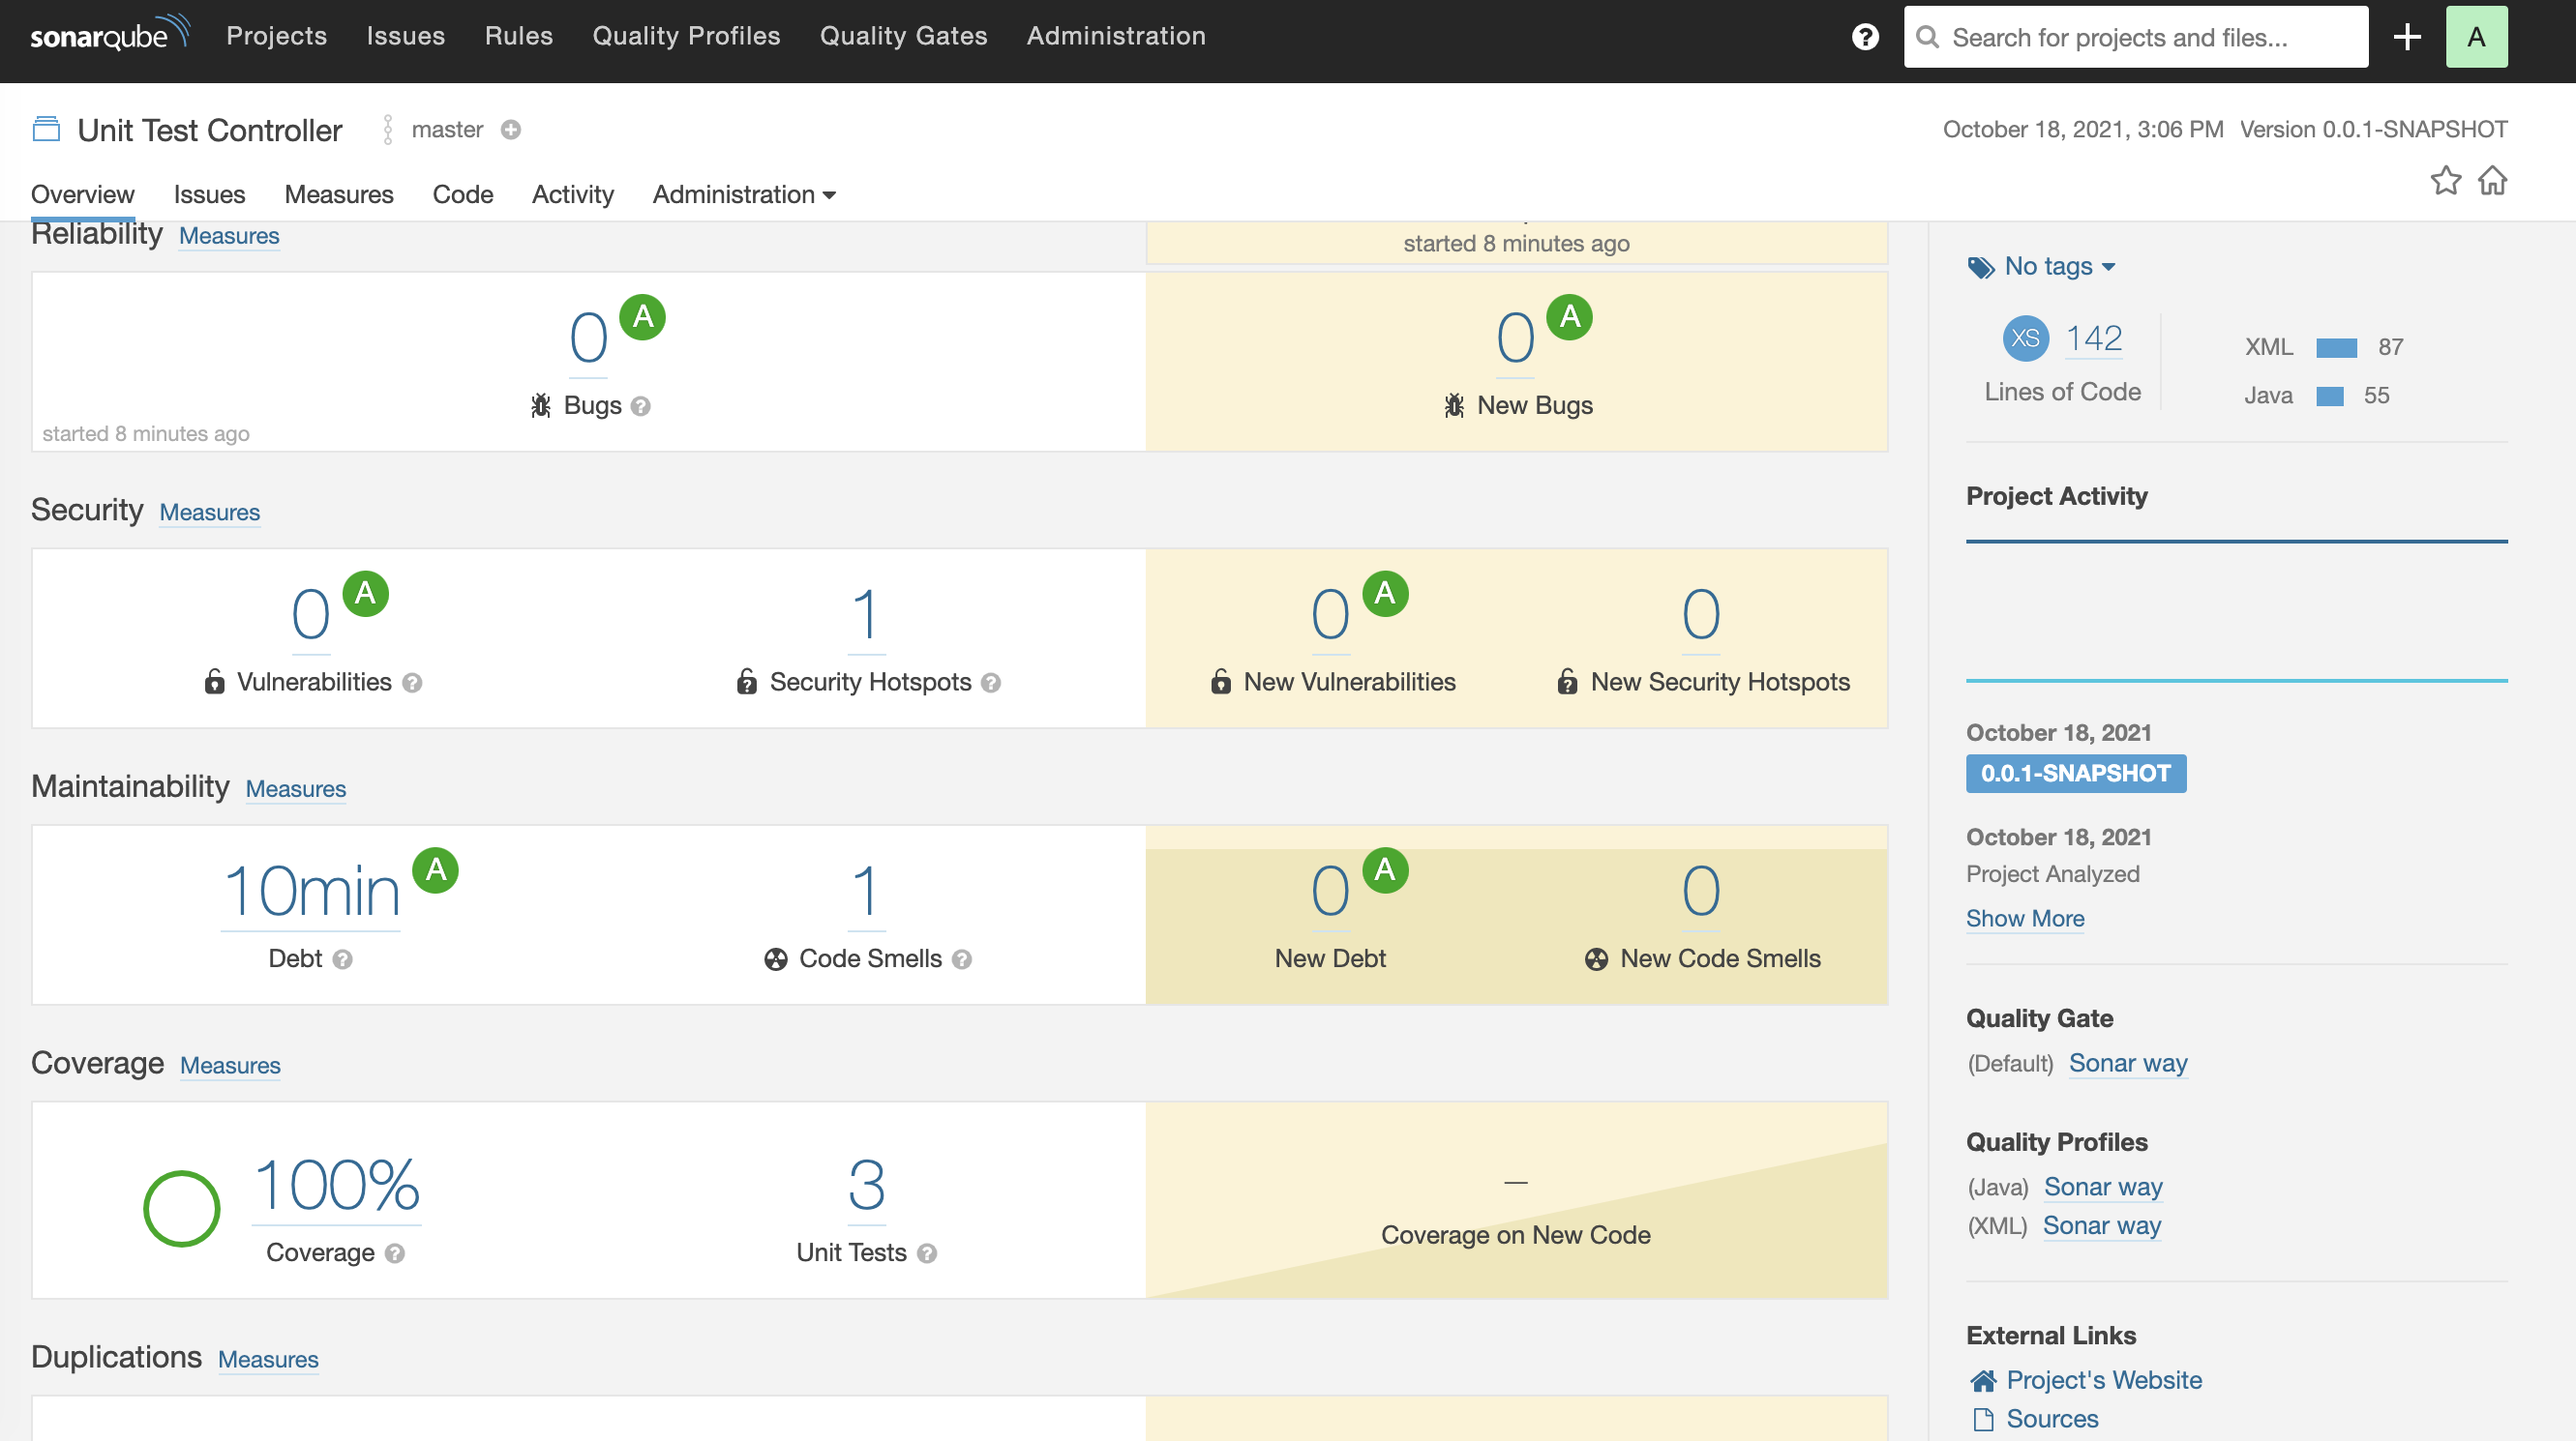
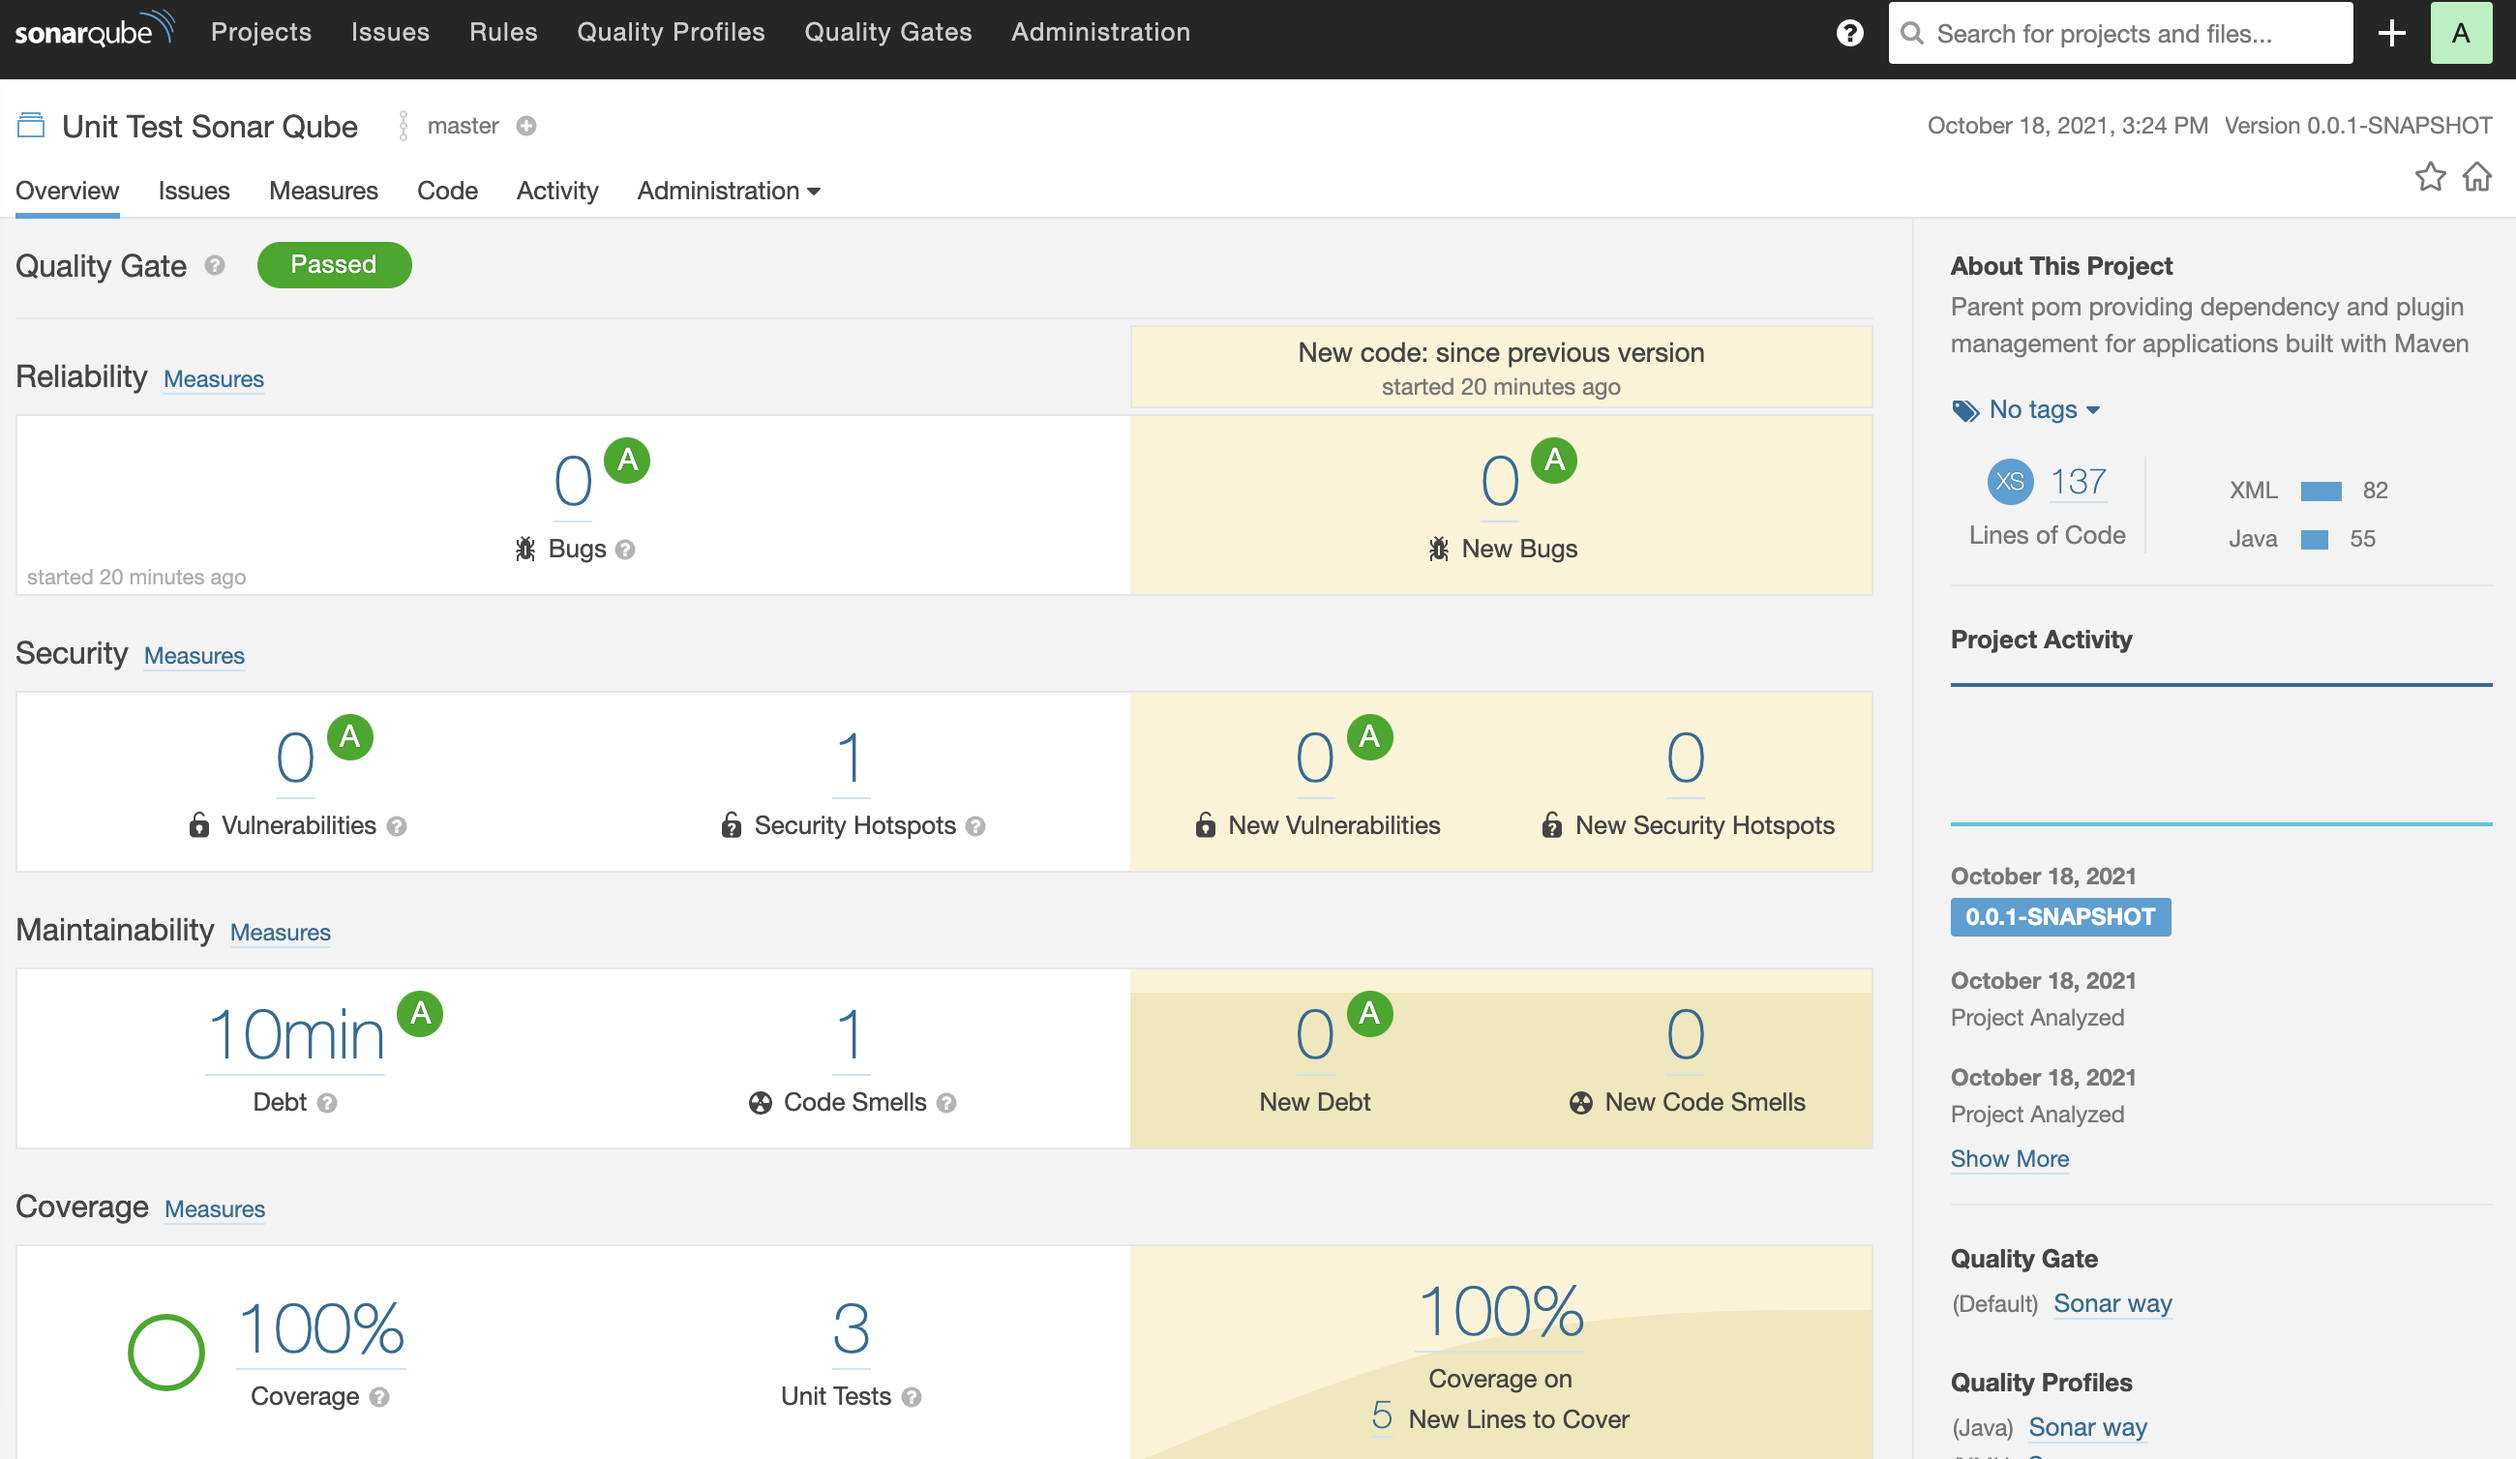
Rename project

diff --git a/unit-test-sonar-qube/src/test/java/io/codebyexample/unittestsonarqube/entrypoint/ControllerTest.java b/unit-test-sonar-qube/src/test/java/io/codebyexample/unittestsonarqube/entrypoint/ControllerTest.java
@@ -1,4 +1,4 @@
-package io.codebyexample.unittestcontroller.entrypoint;
+package io.codebyexample.unittestsonarqube.entrypoint;
 
 import static org.hamcrest.Matchers.is;
 import static org.springframework.test.web.servlet.request.MockMvcRequestBuilders.get;
@@ -6,10 +6,9 @@ import static org.springframework.test.web.servlet.result.MockMvcResultHandlers.
 import static org.springframework.test.web.servlet.result.MockMvcResultMatchers.jsonPath;
 import static org.springframework.test.web.servlet.result.MockMvcResultMatchers.status;
 
-import io.codebyexample.unittestcontroller.core.entity.Greeting;
-import io.codebyexample.unittestcontroller.core.usecase.GreetUseCase;
+import io.codebyexample.unittestsonarqube.core.entity.Greeting;
+import io.codebyexample.unittestsonarqube.core.usecase.GreetUseCase;
 import org.junit.jupiter.api.Test;
-import org.mockito.BDDMockito;
 import org.mockito.Mockito;
 import org.springframework.beans.factory.annotation.Autowired;
 import org.springframework.boot.test.autoconfigure.web.servlet.WebMvcTest;

diff --git a/unit-test-sonar-qube/src/main/java/io/codebyexample/unittestsonarqube/entrypoint/Controller.java b/unit-test-sonar-qube/src/main/java/io/codebyexample/unittestsonarqube/entrypoint/Controller.java
@@ -1,7 +1,7 @@
-package io.codebyexample.unittestcontroller.entrypoint;
+package io.codebyexample.unittestsonarqube.entrypoint;
 
-import io.codebyexample.unittestcontroller.core.entity.Greeting;
-import io.codebyexample.unittestcontroller.core.usecase.GreetUseCase;
+import io.codebyexample.unittestsonarqube.core.entity.Greeting;
+import io.codebyexample.unittestsonarqube.core.usecase.GreetUseCase;
 import org.springframework.beans.factory.annotation.Autowired;
 import org.springframework.web.bind.annotation.GetMapping;
 import org.springframework.web.bind.annotation.RequestParam;

diff --git a/unit-test-sonar-qube/src/test/java/io/codebyexample/unittestsonarqube/core/usecase/GreetUseCaseImplTest.java b/unit-test-sonar-qube/src/test/java/io/codebyexample/unittestsonarqube/core/usecase/GreetUseCaseImplTest.java
@@ -1,7 +1,7 @@
-package io.codebyexample.unittestcontroller.core.usecase;
+package io.codebyexample.unittestsonarqube.core.usecase;
 
 
-import io.codebyexample.unittestcontroller.core.entity.Greeting;
+import io.codebyexample.unittestsonarqube.core.entity.Greeting;
 import org.junit.jupiter.api.Assertions;
 import org.junit.jupiter.api.Test;
 import org.springframework.beans.factory.annotation.Autowired;

diff --git a/unit-test-sonar-qube/src/main/java/io/codebyexample/unittestsonarqube/core/usecase/GreetUseCaseImpl.java b/unit-test-sonar-qube/src/main/java/io/codebyexample/unittestsonarqube/core/usecase/GreetUseCaseImpl.java
@@ -1,6 +1,6 @@
-package io.codebyexample.unittestcontroller.core.usecase;
+package io.codebyexample.unittestsonarqube.core.usecase;
 
-import io.codebyexample.unittestcontroller.core.entity.Greeting;
+import io.codebyexample.unittestsonarqube.core.entity.Greeting;
 import org.springframework.stereotype.Component;
 
 /**

diff --git a/unit-test-sonar-qube/src/main/java/io/codebyexample/unittestsonarqube/core/usecase/GreetUseCase.java b/unit-test-sonar-qube/src/main/java/io/codebyexample/unittestsonarqube/core/usecase/GreetUseCase.java
@@ -1,0 +1,11 @@
+package io.codebyexample.unittestsonarqube.core.usecase;
+
+import io.codebyexample.unittestsonarqube.core.entity.Greeting;
+
+/**
+ * @author huypva
+ */
+public interface GreetUseCase {
+
+  Greeting greet(String name);
+}

diff --git a/unit-test-sonar-qube/src/test/java/io/codebyexample/unittestsonarqube/ApplicationTests.java b/unit-test-sonar-qube/src/test/java/io/codebyexample/unittestsonarqube/ApplicationTests.java
@@ -1,4 +1,4 @@
-package io.codebyexample.unittestcontroller;
+package io.codebyexample.unittestsonarqube;
 
 import org.junit.jupiter.api.Test;
 import org.springframework.boot.test.context.SpringBootTest;

diff --git a/unit-test-sonar-qube/src/main/java/io/codebyexample/unittestsonarqube/core/entity/Greeting.java b/unit-test-sonar-qube/src/main/java/io/codebyexample/unittestsonarqube/core/entity/Greeting.java
@@ -1,4 +1,4 @@
-package io.codebyexample.unittestcontroller.core.entity;
+package io.codebyexample.unittestsonarqube.core.entity;
 
 import lombok.AllArgsConstructor;
 import lombok.Getter;

diff --git a/unit-test-sonar-qube/src/main/java/io/codebyexample/unittestsonarqube/Application.java b/unit-test-sonar-qube/src/main/java/io/codebyexample/unittestsonarqube/Application.java
@@ -1,4 +1,4 @@
-package io.codebyexample.unittestcontroller;
+package io.codebyexample.unittestsonarqube;
 
 import lombok.Generated;
 import org.springframework.boot.SpringApplication;
